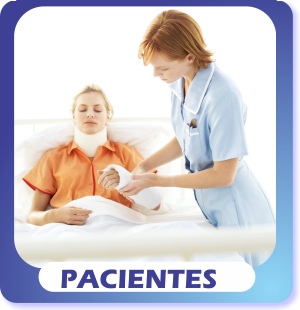
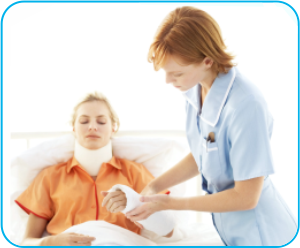
Actualizar estilo de pantalla de inicio

diff --git a/hospinet/templates/index.html b/hospinet/templates/index.html
@@ -1,23 +1,71 @@
 {% extends "base.html" %}
 {% load staticfiles %}
 {% block heading %}
-<div class="container_12">
-<img src="{% static "images/head.png" %}" />
+<div class="row-fluid">
+  <div class="hero span12">
+    <img src="{% static "images/head.jpg" %}" />
+  </div>
 </div>
 {% endblock %}
 {% block content %}
-<br />
-<div class="container_12 clearfix">
-<a class="grid_4" href="{% url "persona-index" %}"><img src="{% static "images/pacientes.png" %}" /></a>
-<a class="grid_4" href="{% url "admision-index" %}"><img src="{% static "images/admisiones.png" %}" /></a>
-<a class="grid_4" href="{% url "examen-index" %}"><img src="{% static "images/laboratorio.png" %}" /></a>
+<div class="row-fluid">
+  <article class="span3">
+  <div class="thumbnail">
+    <div><a href="{% url "persona-index" %}"><img src="{% static "images/pacientes.png" %}" /></a></div>
+    <hr>
+    <a class="btn btn-primary" href="{% url "persona-index" %}">Pacientes</a>
+    </div>
+  </article>
+  <article class="span3">
+  <div class="thumbnail">
+    <div><a href="{% url "admision-index" %}"><img src="{% static "images/admisiones.png" %}" /></a></div>
+    <hr>
+    <a class="btn btn-primary" href="{% url "admision-index" %}">Admisiones</a>
+    </div>
+  </article>
+  <article class="span3">
+  <div class="thumbnail">
+    <div><a href="{% url "examen-index" %}"><img src="{% static "images/imagenes.png" %}" /></a></div>
+    <hr>
+    <a class="btn btn-primary" href="{% url "examen-index" %}">Centro de Im&aacute;genes</a>
+    </div>
+  </article>
+  <article class="span3">
+  <div class="thumbnail">
+    <div><a href="{% url "nightingale-index" %}"><img src="{% static "images/enfermeria.png" %}" /></a></div>
+    <hr>
+    <a class="btn btn-primary" href="{% url "nightingale-index" %}">Enfermer&iacute;a</a>
+    </div>
+  </article>
 </div>
-<div class="container_12 clearfix">
-<a class="grid_4" href="{% url "nightingale-index" %}"><img src="{% static "images/enfermeria.png" %}" /></a>
-<a class="grid_4" href="{% url "emergency-index" %}"><img src="{% static "images/emergencia.png" %}" /></a>
-<a class="grid_4" href="{%url "consultorio-index" %}"><img src="{% static "images/pacientes.png" %}" /></a>
-</div>
-<div class="container_12 clearfix">
-<a class="grid_4" href="{% url "invoice-index" %}"><img src="{% static "images/reportes.png" %}" /></a>
+<div class="row-fluid">
+  <article class="span3">
+    <div class="thumbnail">
+      <div><a class="block" href="{% url "emergency-index" %}"><img src="{% static "images/emergencia.png" %}"></a></div>
+      <hr>
+      <a class="btn btn-primary" href="{% url "emergency-index" %}">Emergencia</a>
+    </div>
+  </article>
+  <article class="span3">
+    <div class="thumbnail">
+      <div><a href="{% url "consultorio-index" %}"><img src="{% static "images/pacientes.png" %}" /></a></div>
+      <hr>
+      <a class="btn btn-primary" href="{% url "consultorio-index" %}">Consultorio</a>
+    </div>
+  </article>
+  <article class="span3">
+    <div class="thumbnail">
+      <div><a href="{% url "invoice-index" %}"><img src="{% static "images/reportes.png" %}" /></div>
+      <hr>
+      <a class="btn btn-primary" href="{% url "invoice-index" %}">Caja</a>
+    </div>
+  </article>
+  <article class="span3">
+    <div class="thumbnail">
+      <div><a href="{% url "invoice-index" %}"><img src="{% static "images/reportes.png" %}" /></a></div>
+      <hr>
+      <a class="btn btn-primary" href="{% url "invoice-index" %}">Caja</a>
+    </div>
+  </article>
 </div>
 {% endblock %}

diff --git a/hospinet/templates/base.html b/hospinet/templates/base.html
@@ -18,7 +18,10 @@
     .sidebar-nav {
       padding: 9px 0;
     }
-
+    .thumbnail a {
+        display: block;
+        text-align: center;
+    }
     @media (max-width: 980px) {
       /* Enable use of floated navbar text */
       .navbar-text.pull-right {
@@ -61,7 +64,7 @@
               {% if user.is_authenticated %}
               Logged in as {{ user }} <a href="{% url "userena_signout" %}" class="navbar-link">Cerrar Ses&oacute;n</a>
               {% else %}
-              <a href="{% url "userena_signin" %}" class="navbar-link>Iniciar Sesi&oacute;n</a>
+              <a href="{% url "userena_signin" %}" class="navbar-link">Iniciar Sesi&oacute;n</a>
               {% endif %}
             </p>
             {% load tree_menu_tags %}{% show_menu "root" %}

diff --git a/hospinet/templates/treemenus/menu.html b/hospinet/templates/treemenus/menu.html
@@ -1,3 +1,4 @@
-{% load tree_menu_tags %}<ul class="nav">
+{% load tree_menu_tags %}
+<ul class="nav">
   {% for menu_item in menu.root_item.children %}{% show_menu_item menu_item %}{% endfor %}
 </ul>

diff --git a/hospinet/invoice/urls.py b/hospinet/invoice/urls.py
@@ -19,7 +19,7 @@ from django.conf.urls import patterns, url
 from invoice.views import (IndexView, ReciboPersonaCreateView,
      ReciboDetailView, VentaCreateView, ReporteReciboView,
      ReporteProductoView, ReciboRemiteView, ReciboRadView,
-     ReciboExamenCreateView)
+     EmergenciaPeriodoView, ReciboExamenCreateView)
 
 urlpatterns = patterns('',
     
